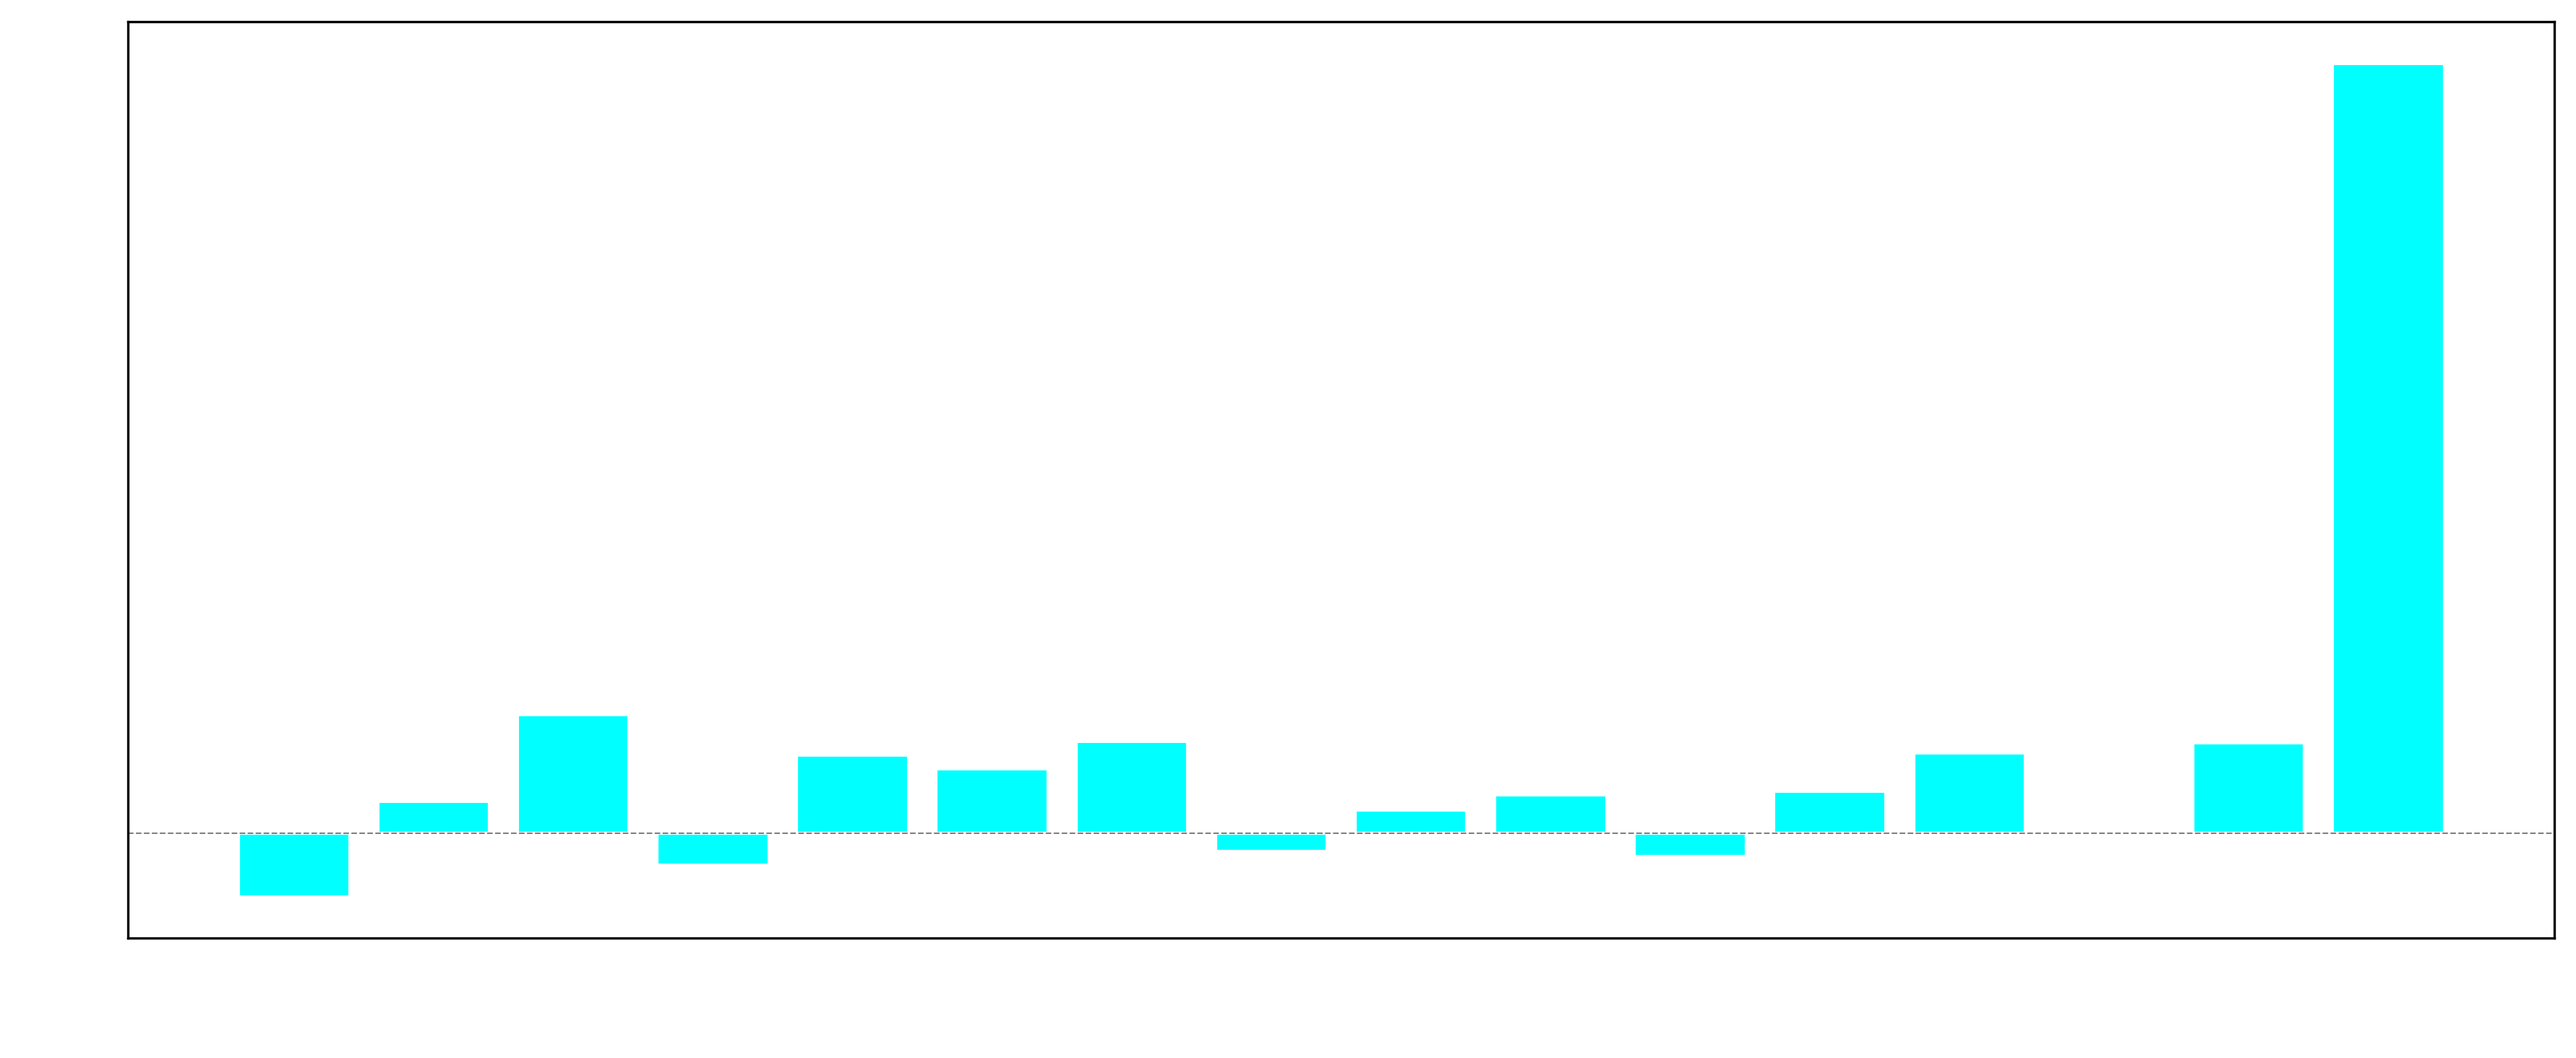
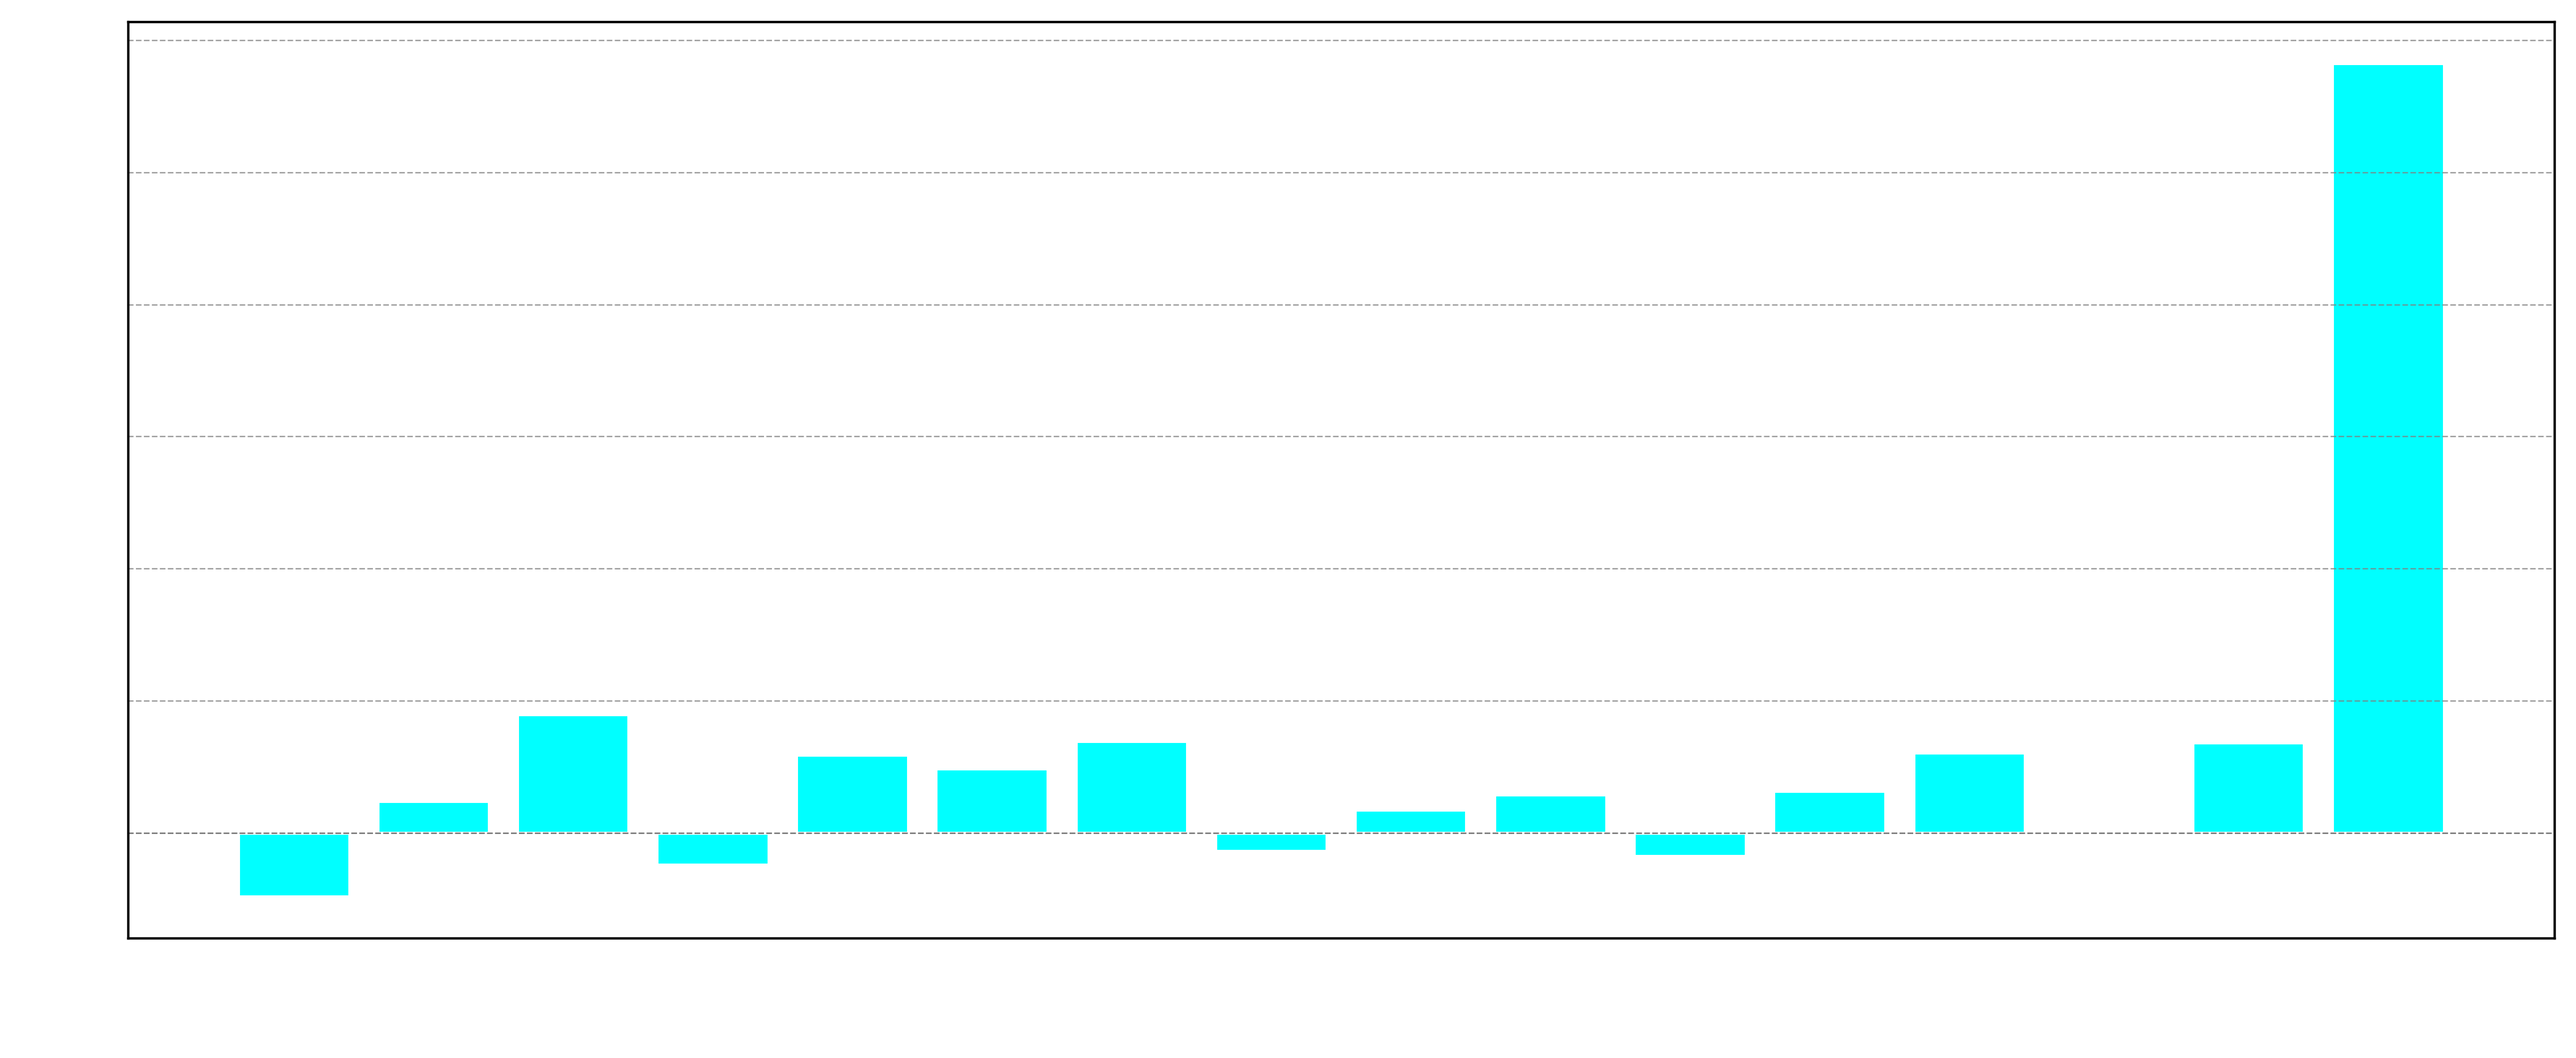
updated gridlines

diff --git a/src/manufacturer_advanced_visuals.py b/src/manufacturer_advanced_visuals.py
@@ -15,29 +15,33 @@ aggregated_scores = aggregated_scores[aggregated_scores['Manufacturer'] != 'Tesl
 plots_dir = "manufacturer_advanced_visuals"
 os.makedirs(plots_dir, exist_ok=True)
 
-# # 1. **CO2 Reduction Rate Over Time (Bar Graph)**
-# for manufacturer in aggregated_scores['Manufacturer'].unique():
-#     data = aggregated_scores[aggregated_scores['Manufacturer'] == manufacturer]
-#     data = data.sort_values(by='Model Year')
-#     data['CO2 Reduction Rate (%)'] = data['Yearly Sustainability Score'].pct_change() * 100
+# 1. **CO2 Reduction Rate Over Time (Bar Graph)**
+for manufacturer in aggregated_scores['Manufacturer'].unique():
+    data = aggregated_scores[aggregated_scores['Manufacturer'] == manufacturer]
+    data = data.sort_values(by='Model Year')
+    data['CO2 Reduction Rate (%)'] = data['Yearly Sustainability Score'].pct_change() * 100
 
-#     fig, ax = plt.subplots(figsize=(12, 5))
-#     ax.bar(
-#         data['Model Year'],
-#         data['CO2 Reduction Rate (%)'],
-#         color='cyan',
-#         edgecolor='white'
-#     )
-#     ax.axhline(y=0, color='gray', linestyle='--', linewidth=0.5)
-#     ax.set_facecolor('none')  # Transparent background
-#     fig.patch.set_alpha(0)
-#     ax.set_xlabel("Year", fontsize=12, color='white')
-#     ax.set_ylabel("CO2 Reduction Rate (%)", fontsize=12, color='white')
-#     ax.tick_params(axis='x', colors='white', labelsize=10)
-#     ax.tick_params(axis='y', colors='white', labelsize=10)
-#     plt.tight_layout()
-#     fig.savefig(f"{plots_dir}/{manufacturer}_co2_reduction_rate.png", dpi=300, transparent=True, bbox_inches='tight')
-#     plt.close(fig)
+    fig, ax = plt.subplots(figsize=(12, 5))
+    ax.bar(
+        data['Model Year'],
+        data['CO2 Reduction Rate (%)'],
+        color='cyan',
+        edgecolor='white'
+    )
+    ax.axhline(y=0, color='gray', linestyle='--', linewidth=0.5)
+    ax.set_facecolor('none')  # Transparent background
+    fig.patch.set_alpha(0)
+    ax.set_xlabel("Year", fontsize=12, color='white')
+    ax.set_ylabel("CO2 Reduction Rate (%)", fontsize=12, color='white')
+    ax.tick_params(axis='x', colors='white', labelsize=10)
+    ax.tick_params(axis='y', colors='white', labelsize=10)
+
+    # Add y-axis gridlines
+    ax.grid(axis='y', color='gray', linestyle='--', linewidth=0.5, alpha=0.7)  # Transparent gridlines
+
+    plt.tight_layout()
+    fig.savefig(f"{plots_dir}/{manufacturer}_co2_reduction_rate.png", dpi=300, transparent=True, bbox_inches='tight')
+    plt.close(fig)
 
 # # 2. **MPG Efficiency Growth Rate (Bar Graph)**
 # for manufacturer in aggregated_scores['Manufacturer'].unique():
@@ -59,6 +63,10 @@ os.makedirs(plots_dir, exist_ok=True)
 #     ax.set_ylabel("MPG Growth Rate (%)", fontsize=12, color='white')
 #     ax.tick_params(axis='x', colors='white', labelsize=10)
 #     ax.tick_params(axis='y', colors='white', labelsize=10)
+    
+#     # Add y-axis gridlines
+#     ax.grid(axis='y', color='gray', linestyle='--', linewidth=0.5, alpha=0.7)  # Transparent gridlines
+
 #     plt.tight_layout()
 #     fig.savefig(f"{plots_dir}/{manufacturer}_mpg_growth_rate.png", dpi=300, transparent=True, bbox_inches='tight')
 #     plt.close(fig)
